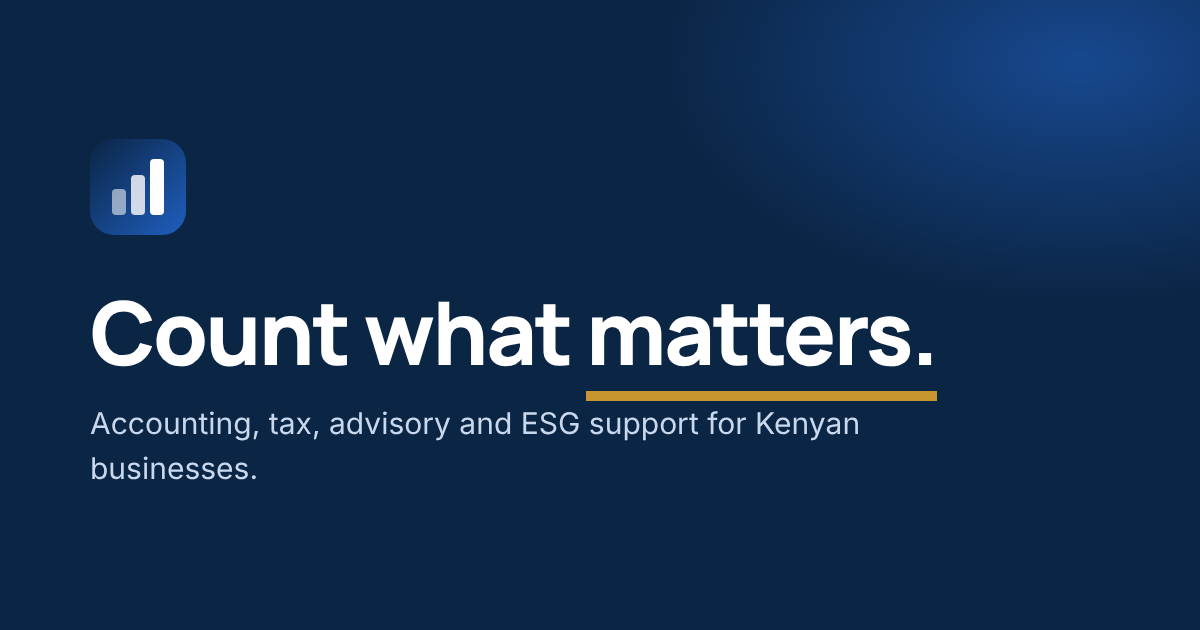
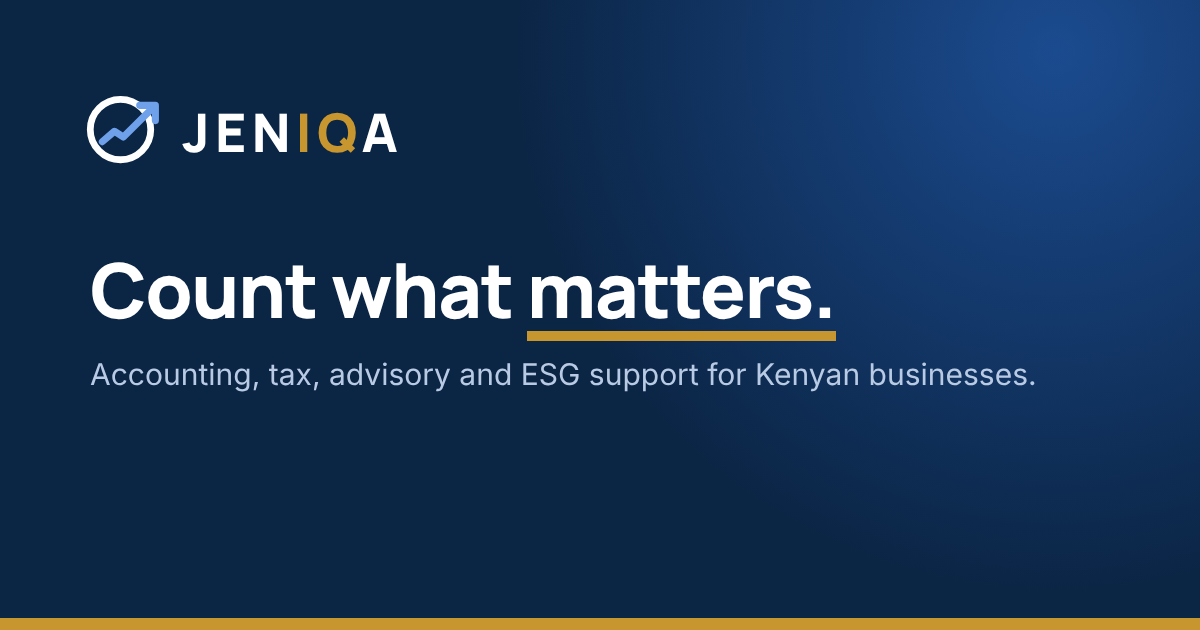
Brand the theme as JENIQA (v1.3.0) (#3)
* Add motion, free tools and a homepage tools block (v1.2.0)

- Free tools page: PAYE and take-home pay, VAT, KRA deadline countdown,
  ESG readiness check with score and next steps; rates editable under
  Firm settings > Free tools, with a launch checklist item to confirm them
- Homepage: services ticker under the hero, free tools block with the
  next KRA deadline
- Motion: hero entrance, floating hero cards, growing bars, scroll
  reveal, stat counters, hover lifts, reading progress on articles;
  all skipped when the visitor prefers reduced motion
- Docs and screenshots updated

Claude-Session: https://claude.ai/code/session_01XJgmjuTxztYokqzvinyikF

* Keep the KRA countdown right on cached pages, and small fixes (v1.2.1)

- The deadline countdown is recounted in the browser from today's date in
  Nairobi, so a page served from LiteSpeed or Cloudflare cache never shows
  a stale or past deadline
- PAYE calculator falls back to the default bands if the bands box is emptied
- Printing shows blocks that had not scrolled into view yet
- Remove an aria-label that had no role on the services ticker

Claude-Session: https://claude.ai/code/session_01XJgmjuTxztYokqzvinyikF

* Brand the theme as JENIQA (v1.3.0)

Built-in logo is now the JENIQA ring-and-arrow mark with the wordmark,
IQ in gold, white on the navy footer. The registered name JENIQA
Advisory Limited is used for the copyright line, form consent and
structured data; the short brand name for the logo, titles, bylines
[…]

Changed region(s): [[0.0617, 0.1508, 1.0, 0.6937], [0.0, 0.9651, 1.0, 1.0], [0.0617, 0.7238, 0.2158, 0.7841]]

diff --git a/theme/cwm/style.css b/theme/cwm/style.css
@@ -4,7 +4,7 @@ Theme URI: https://ivulatechnologies.com
 Author: Ivula Technologies
 Author URI: https://ivulatechnologies.com
 Description: Corporate theme for a Kenyan accounting, tax, advisory and ESG firm. Every block is editable in WordPress, with switches for the audit service and the team section. No plugins required.
-Version: 1.2.1
+Version: 1.3.0
 Requires at least: 6.2
 Tested up to: 6.8
 Requires PHP: 7.4
@@ -170,13 +170,11 @@ p { margin: 0 0 1em; }
 .site-header__inner { display: flex; align-items: center; justify-content: space-between; gap: 20px; min-height: var(--header-h); }
 
 .brand { display: inline-flex; align-items: center; gap: 12px; text-decoration: none; color: var(--navy); flex: none; }
-.brand__mark { width: 44px; height: 44px; flex: none; }
+.brand__mark { width: 42px; height: 42px; flex: none; }
 .brand__img { max-height: 48px; width: auto; }
-.brand__text { display: flex; flex-direction: column; line-height: 1.1; }
-.brand__name { font: 800 1.18rem/1.1 var(--font-head); letter-spacing: -0.02em; color: var(--navy); }
-.brand__tag { font: 600 .72rem/1.3 var(--font-body); color: var(--slate); letter-spacing: .02em; margin-top: 3px; }
-.brand--light .brand__name { color: #fff; }
-.brand--light .brand__tag { color: #9FB6D6; }
+.brand__word { font: 800 1.6rem/1 var(--font-head); letter-spacing: .1em; color: #0E2747; white-space: nowrap; }
+.brand__accent { color: var(--gold); }
+.brand--light .brand__word { color: #fff; }
 
 .main-nav__list { list-style: none; margin: 0; padding: 0; display: flex; align-items: center; gap: 4px; }
 .main-nav__item { position: relative; display: flex; align-items: center; }
@@ -230,9 +228,8 @@ p { margin: 0 0 1em; }
 	.main-nav__mobile-extra a { display: flex; align-items: center; gap: 10px; color: var(--navy); text-decoration: none; font-weight: 600; }
 }
 @media (max-width: 480px) {
-	.brand__tag { display: none; }
-	.brand__name { font-size: 1.05rem; }
-	.brand__mark { width: 38px; height: 38px; }
+	.brand__word { font-size: 1.3rem; }
+	.brand__mark { width: 34px; height: 34px; }
 	.hide-xs { display: none; }
 	.show-xs { display: inline; }
 	.btn--header { min-height: 42px; padding: .55em .9em; font-size: .85rem; }
@@ -770,7 +767,7 @@ a.pill:hover { background: var(--royal); color: #fff; }
 .sitemap li { margin-bottom: 6px; }
 
 /* ---------- Footer ---------- */
-.site-footer { background: #071A33; color: #A9BDD8; font-size: .95rem; }
+.site-footer { background: #071A33; color: #A9BDD8; font-size: .95rem; border-top: 4px solid var(--gold); }
 .footer-top { display: grid; gap: 40px; padding: 64px 0 48px; }
 @media (min-width: 760px) { .footer-top { grid-template-columns: repeat(2, 1fr); } }
 @media (min-width: 1100px) { .footer-top { grid-template-columns: 1.5fr 1fr 1fr 1.15fr 1.3fr; gap: 40px; } }

diff --git a/theme/cwm/inc/template-tags.php b/theme/cwm/inc/template-tags.php
@@ -5,27 +5,35 @@
 
 defined( 'ABSPATH' ) || exit;
 
-/** The built-in mark: three ascending bars for money, obligations and impact. */
+/** The built-in JENIQA mark: a ring with a rising arrow breaking out of it. */
 function cwm_mark_svg( $variant = 'dark' ) {
-	$uid = 'g' . wp_rand( 1000, 9999 );
-	return '<svg class="brand__mark" viewBox="0 0 48 48" aria-hidden="true" focusable="false">'
-		. '<defs><linearGradient id="' . $uid . '" x1="0" y1="0" x2="1" y2="1"><stop offset="0" stop-color="' . ( 'light' === $variant ? '#2A6FD6' : '#0B2545' ) . '"/><stop offset="1" stop-color="#1F5FBF"/></linearGradient></defs>'
-		. '<rect width="48" height="48" rx="12" fill="url(#' . $uid . ')"/>'
-		. '<rect x="11" y="25" width="7" height="13" rx="2" fill="#fff" fill-opacity=".55"/>'
-		. '<rect x="20.5" y="18" width="7" height="20" rx="2" fill="#fff" fill-opacity=".8"/>'
-		. '<rect x="30" y="10" width="7" height="28" rx="2" fill="#fff"/>'
+	$light = 'light' === $variant;
+	return '<svg class="brand__mark" viewBox="28 28 416 416" aria-hidden="true" focusable="false">'
+		. '<circle cx="222" cy="222" r="170" fill="none" stroke="' . ( $light ? '#fff' : '#0E2747' ) . '" stroke-width="38"/>'
+		. '<path d="M120 290 188 232 238 264 408 95M330 86h88v86" fill="none" stroke="' . ( $light ? '#6FA0EA' : '#2160C4' ) . '" stroke-width="40" stroke-linecap="round" stroke-linejoin="round"/>'
 		. '</svg>';
 }
 
-/** Logo: uploaded image if set, otherwise the mark plus the firm name from settings. */
+/** The short brand name for the logo, with the accent letters (e.g. "IQ") in gold. */
+function cwm_wordmark() {
+	$name   = cwm_brand();
+	$accent = (string) cwm_opt( 'brand_accent' );
+	$pos    = '' !== $accent ? strpos( $name, $accent ) : false;
+	if ( false === $pos ) {
+		return '<span class="brand__word">' . esc_html( $name ) . '</span>';
+	}
+	return '<span class="brand__word">' . esc_html( substr( $name, 0, $pos ) ) . '<span class="brand__accent">' . esc_html( $accent ) . '</span>' . esc_html( substr( $name, $pos + strlen( $accent ) ) ) . '</span>';
+}
+
+/** Logo: uploaded image if set, otherwise the built-in mark plus the brand name. */
 function cwm_logo( $variant = 'dark' ) {
 	$id = (int) ( 'light' === $variant && cwm_opt( 'logo_footer' ) ? cwm_opt( 'logo_footer' ) : cwm_opt( 'logo' ) );
 	if ( $id && wp_get_attachment_url( $id ) ) {
-		echo '<img class="brand__img" src="' . esc_url( wp_get_attachment_url( $id ) ) . '" alt="' . esc_attr( cwm_firm() ) . '" height="48">';
+		echo '<img class="brand__img" src="' . esc_url( wp_get_attachment_url( $id ) ) . '" alt="' . esc_attr( cwm_brand() ) . '" height="48">';
 		return;
 	}
 	echo cwm_mark_svg( $variant ); // phpcs:ignore WordPress.Security.EscapeOutput
-	echo '<span class="brand__text"><span class="brand__name">' . esc_html( cwm_firm() ) . '</span><span class="brand__tag">' . esc_html( cwm_opt( 'tagline' ) ) . '</span></span>';
+	echo cwm_wordmark(); // phpcs:ignore WordPress.Security.EscapeOutput
 }
 
 /** "Download firm profile" button, hidden without a file. */

diff --git a/theme/cwm/inc/settings.php b/theme/cwm/inc/settings.php
@@ -10,10 +10,12 @@ function cwm_settings_tabs() {
 		'firm'     => array(
 			'title'  => 'Firm details',
 			'fields' => array(
-				array( 'key' => 'firm_name', 'label' => 'Firm name', 'help' => 'Used in the header, footer, page titles, bylines ("[Firm name] Tax Team") and structured data. Keep the words "audit" or "auditors" out of it; Switch A controls those.' ),
+				array( 'key' => 'firm_name', 'label' => 'Registered company name', 'help' => 'The full legal name, e.g. "JENIQA Advisory Limited". Used in the copyright line, the privacy consent on forms and structured data. Keep the words "audit" or "auditors" out of it; Switch A controls those.' ),
+				array( 'key' => 'brand_name', 'label' => 'Brand name (logo)', 'help' => 'The short name shown in the logo, page titles, bylines ("JENIQA Tax Team") and WhatsApp greetings, e.g. "JENIQA". Leave empty to use the registered name.' ),
+				array( 'key' => 'brand_accent', 'label' => 'Gold letters in the logo', 'help' => 'Letters of the brand name shown in gold, e.g. "IQ". Leave empty for a single-colour name.' ),
 				array( 'key' => 'tagline', 'label' => 'Tagline' ),
 				array( 'key' => 'description', 'label' => 'One-line description', 'type' => 'textarea', 'rows' => 2, 'help' => 'Shown in the footer and used as the homepage meta description.' ),
-				array( 'key' => 'logo', 'label' => 'Logo (optional)', 'type' => 'media', 'library' => 'image', 'help' => 'Leave empty to use the built-in mark with the firm name. Upload an SVG or a PNG at least 400px wide.' ),
+				array( 'key' => 'logo', 'label' => 'Logo (optional)', 'type' => 'media', 'library' => 'image', 'help' => 'Leave empty to use the built-in JENIQA logo (mark plus brand name). Upload an SVG or a PNG at least 400px wide.' ),
 				array( 'key' => 'logo_footer', 'label' => 'Logo for dark backgrounds (optional)', 'type' => 'media', 'library' => 'image', 'help' => 'A white or light version for the navy footer.' ),
 				array( 'key' => 'phone', 'label' => 'Phone' ),
 				array( 'key' => 'email', 'label' => 'Public email address', 'type' => 'email' ),
@@ -129,7 +131,7 @@ add_action(
 	function ( $old, $new ) {
 		$new = wp_parse_args( (array) $new, cwm_setting_defaults() );
 		$old = wp_parse_args( (array) $old, cwm_setting_defaults() );
-		update_option( 'blogname', $new['firm_name'] );
+		update_option( 'blogname', '' !== trim( (string) $new['brand_name'] ) ? $new['brand_name'] : $new['firm_name'] );
 		update_option( 'blogdescription', $new['tagline'] );
 		if ( $old['show_team'] !== $new['show_team'] || $old['audit_state'] !== $new['audit_state'] ) {
 			update_option( 'cwm_flush_rewrite', 1 );

diff --git a/theme/cwm/inc/seed.php b/theme/cwm/inc/seed.php
@@ -96,7 +96,7 @@ function cwm_rows( $pairs, $keys = array( 'title', 'text' ) ) {
 
 function cwm_seed() {
 	// Site basics.
-	update_option( 'blogname', cwm_firm() );
+	update_option( 'blogname', cwm_brand() );
 	update_option( 'blogdescription', cwm_opt( 'tagline' ) );
 	update_option( 'timezone_string', 'Africa/Nairobi' );
 	update_option( 'date_format', 'j F Y' );
@@ -989,3 +989,58 @@ Please do not send confidential documents through our forms unless we ask for th
 These terms are governed by the laws of Kenya.
 TXT;
 }
+
+/**
+ * 1.3.0: sites installed before the JENIQA brand still say "Firm Name". Swap in the
+ * real names once, including the privacy and terms pages written at first setup.
+ */
+add_action(
+	'init',
+	function () {
+		if ( ! get_option( 'cwm_seeded' ) ) {
+			return;
+		}
+		$set0 = (array) get_option( 'cwm_settings', array() );
+		if ( isset( $set0['email'] ) && 'info@jeniqa.co.ke' === $set0['email'] ) {
+			$set0['email'] = 'info@jeniqa.com';
+			update_option( 'cwm_settings', $set0 );
+		}
+		if ( get_option( 'cwm_brand_130' ) ) {
+			return;
+		}
+		update_option( 'cwm_brand_130', 1 );
+		$set  = (array) get_option( 'cwm_settings', array() );
+		$old  = isset( $set['firm_name'] ) ? trim( (string) $set['firm_name'] ) : '';
+		if ( '' !== $old && 'Firm Name' !== $old ) {
+			return; // The firm already set its own name; leave everything alone.
+		}
+		$d                    = cwm_setting_defaults();
+		$set['firm_name']     = $d['firm_name'];
+		$set['brand_name']    = $d['brand_name'];
+		$set['brand_accent']  = $d['brand_accent'];
+		if ( ! isset( $set['email'] ) || in_array( $set['email'], array( 'info@example.co.ke', 'info@jeniqa.co.ke' ), true ) ) {
+			$set['email'] = $d['email'];
+		}
+		update_option( 'cwm_settings', $set );
+		update_option( 'blogname', $d['brand_name'] );
+		$pages = get_posts(
+			array(
+				'post_type'      => 'page',
+				'post_status'    => 'any',
+				'posts_per_page' => -1,
+				's'              => 'Firm Name',
+			)
+		);
+		foreach ( $pages as $p ) {
+			if ( false !== strpos( $p->post_content, 'Firm Name' ) ) {
+				wp_update_post(
+					array(
+						'ID'           => $p->ID,
+						'post_content' => str_replace( 'Firm Name', $d['firm_name'], $p->post_content ),
+					)
+				);
+			}
+		}
+	},
+	20
+);

diff --git a/theme/cwm/inc/seo.php b/theme/cwm/inc/seo.php
@@ -21,9 +21,9 @@ add_filter(
 add_filter(
 	'document_title_parts',
 	function ( $parts ) {
-		$parts['site'] = cwm_firm();
+		$parts['site'] = cwm_brand();
 		if ( is_front_page() ) {
-			$parts['title']   = cwm_firm();
+			$parts['title']   = cwm_brand();
 			$parts['tagline'] = cwm_opt( 'tagline' );
 			unset( $parts['site'] );
 		} elseif ( is_home() ) {
@@ -59,11 +59,11 @@ function cwm_meta_description() {
 		return $d ? $d : cwm_opt( 'description' );
 	}
 	if ( is_home() ) {
-		return 'Tax alerts, tax case analyses, ESG reporting updates, guides and news from ' . cwm_firm() . '.';
+		return 'Tax alerts, tax case analyses, ESG reporting updates, guides and news from ' . cwm_brand() . '.';
 	}
 	if ( is_category() ) {
 		$d = category_description();
-		return $d ? wp_strip_all_tags( $d ) : single_cat_title( '', false ) . ' from ' . cwm_firm() . '.';
+		return $d ? wp_strip_all_tags( $d ) : single_cat_title( '', false ) . ' from ' . cwm_brand() . '.';
 	}
 	return cwm_opt( 'description' );
 }
@@ -86,7 +86,7 @@ add_action(
 			$img = CWM_URI . '/assets/img/og-default.png';
 		}
 		echo "\n" . '<meta name="description" content="' . esc_attr( $desc ) . '">' . "\n";
-		echo '<meta property="og:site_name" content="' . esc_attr( cwm_firm() ) . '">' . "\n";
+		echo '<meta property="og:site_name" content="' . esc_attr( cwm_brand() ) . '">' . "\n";
 		echo '<meta property="og:title" content="' . esc_attr( $title ) . '">' . "\n";
 		echo '<meta property="og:description" content="' . esc_attr( $desc ) . '">' . "\n";
 		echo '<meta property="og:type" content="' . ( is_singular( 'post' ) ? 'article' : 'website' ) . '">' . "\n";
@@ -230,7 +230,8 @@ function cwm_schema_org() {
 	$org  = array(
 		'@type'           => 'AccountingService',
 		'@id'             => home_url( '/#organization' ),
-		'name'            => cwm_firm(),
+		'name'            => cwm_brand(),
+		'legalName'       => cwm_firm(),
 		'slogan'          => cwm_opt( 'tagline' ),
 		'description'     => cwm_opt( 'description' ),
 		'url'             => home_url( '/' ),

diff --git a/theme/cwm/inc/preview.php b/theme/cwm/inc/preview.php
@@ -112,7 +112,7 @@ function cwm_preview_gate( $error ) {
 <meta charset="<?php bloginfo( 'charset' ); ?>">
 <meta name="viewport" content="width=device-width, initial-scale=1">
 <meta name="robots" content="noindex, nofollow">
-<title><?php echo esc_html( cwm_firm() ); ?>: preview</title>
+<title><?php echo esc_html( cwm_brand() ); ?>: preview</title>
 <link rel="stylesheet" href="<?php echo esc_url( $css ); ?>">
 <link rel="icon" href="<?php echo esc_url( CWM_URI . '/assets/img/favicon.svg' ); ?>">
 </head>
@@ -120,7 +120,7 @@ function cwm_preview_gate( $error ) {
 	<main class="preview-gate__card">
 		<div class="preview-gate__brand brand"><?php cwm_logo(); ?></div>
 		<h1>Website preview</h1>
-		<p>This is the new <?php echo esc_html( cwm_firm() ); ?> website before it goes live. Enter the preview password you were given to look around.</p>
+		<p>This is the new <?php echo esc_html( cwm_brand() ); ?> website before it goes live. Enter the preview password you were given to look around.</p>
 		<form method="post">
 			<label for="cwm-pv">Preview password</label>
 			<input id="cwm-pv" type="password" name="cwm_preview_password" autocomplete="current-password" required autofocus>
@@ -146,7 +146,7 @@ function cwm_preview_banner() {
 	$page = isset( $_SERVER['HTTP_HOST'], $_SERVER['REQUEST_URI'] ) ? set_url_scheme( 'http://' . sanitize_text_field( wp_unslash( $_SERVER['HTTP_HOST'] ) ) . esc_url_raw( wp_unslash( $_SERVER['REQUEST_URI'] ) ) ) : home_url( '/' );
 	if ( $fb ) {
 		if ( is_email( $fb ) ) {
-			$href = 'mailto:' . $fb . '?subject=' . rawurlencode( 'Website feedback: ' . cwm_firm() ) . '&body=' . rawurlencode( "Page: " . $page . "\n\n" );
+			$href = 'mailto:' . $fb . '?subject=' . rawurlencode( 'Website feedback: ' . cwm_brand() ) . '&body=' . rawurlencode( "Page: " . $page . "\n\n" );
 		} elseif ( preg_match( '/^\+?[0-9 ]{9,16}$/', $fb ) ) {
 			$href = 'https://wa.me/' . preg_replace( '/\D/', '', $fb ) . '?text=' . rawurlencode( 'Website feedback on ' . $page . ': ' );
 		} else {

diff --git a/theme/cwm/footer.php b/theme/cwm/footer.php
@@ -4,7 +4,7 @@
 	<div class="container">
 		<div class="footer-top">
 			<div class="footer-brand">
-				<a class="brand brand--light" href="<?php echo esc_url( home_url( '/' ) ); ?>" aria-label="<?php echo esc_attr( cwm_firm() ); ?>, home"><?php cwm_logo( 'light' ); ?></a>
+				<a class="brand brand--light" href="<?php echo esc_url( home_url( '/' ) ); ?>" aria-label="<?php echo esc_attr( cwm_brand() ); ?>, home"><?php cwm_logo( 'light' ); ?></a>
 				<p><?php echo esc_html( cwm_opt( 'description' ) ); ?></p>
 				<?php cwm_profile_button( 'btn btn--outline-light btn--sm' ); ?>
 				<ul class="social">
@@ -20,7 +20,7 @@
 							continue;
 						}
 						?>
-						<li><a href="<?php echo esc_url( $s[0] ); ?>" target="_blank" rel="noopener" aria-label="<?php echo esc_attr( cwm_firm() . ' on ' . $s[1] ); ?>"><?php echo cwm_icon( $icon ); // phpcs:ignore ?></a></li>
+						<li><a href="<?php echo esc_url( $s[0] ); ?>" target="_blank" rel="noopener" aria-label="<?php echo esc_attr( cwm_brand() . ' on ' . $s[1] ); ?>"><?php echo cwm_icon( $icon ); // phpcs:ignore ?></a></li>
 					<?php endforeach; ?>
 				</ul>
 			</div>
@@ -92,7 +92,7 @@
 </footer>
 
 <?php if ( cwm_whatsapp_url() ) : ?>
-	<a class="wa-float" href="<?php echo esc_url( cwm_whatsapp_url( 'Hello ' . cwm_firm() . ', I would like to ask about your services.' ) ); ?>" target="_blank" rel="noopener" aria-label="Chat with us on WhatsApp"><?php echo cwm_icon( 'whatsapp' ); // phpcs:ignore ?></a>
+	<a class="wa-float" href="<?php echo esc_url( cwm_whatsapp_url( 'Hello ' . cwm_brand() . ', I would like to ask about your services.' ) ); ?>" target="_blank" rel="noopener" aria-label="Chat with us on WhatsApp"><?php echo cwm_icon( 'whatsapp' ); // phpcs:ignore ?></a>
 <?php endif; ?>
 
 <?php wp_footer(); ?>

diff --git a/theme/cwm/inc/admin.php b/theme/cwm/inc/admin.php
@@ -55,11 +55,11 @@ function cwm_launch_checks() {
 	$s        = admin_url( 'admin.php?page=cwm-settings' );
 
 	return array(
-		array( cwm_firm() !== $d['firm_name'], 'Firm name set', 'Currently "' . cwm_firm() . '".', $s ),
+		array( '' !== trim( cwm_firm() ) && 'Firm Name' !== cwm_firm(), 'Firm name set', 'Registered name "' . cwm_firm() . '", logo name "' . cwm_brand() . '".', $s ),
 		array( cwm_opt( 'phone' ) !== $d['phone'] && cwm_opt( 'email' ) !== $d['email'], 'Real phone and email', 'Shown in the top bar, footer and contact page.', $s ),
 		array( (bool) cwm_opt( 'email_contact' ), 'Shared address for form emails', 'Forms go to a shared inbox only, never to individuals.', $s . '&tab=forms' ),
 		array( $smtp, 'Email sending plugin (SMTP)', 'Install "WP Mail SMTP" or "FluentSMTP" and connect it to the firm\'s mailbox so form emails are not marked as spam. Every enquiry is also saved under Enquiries.', admin_url( 'plugin-install.php?s=smtp&tab=search' ) ),
-		array( (bool) cwm_opt( 'logo' ), 'Logo uploaded (optional)', 'Without one, the built-in mark and the firm name are used.', $s ),
+		array( (bool) cwm_opt( 'logo' ), 'Logo uploaded (optional)', 'Without one, the built-in logo (mark plus brand name) is used.', $s ),
 		array( (bool) cwm_file_url( cwm_opt( 'firm_profile' ) ), 'Firm profile PDF (optional)', 'The download buttons stay hidden until it is uploaded.', $s ),
 		array( 0 === $sample, 'Sample insights removed', $sample ? $sample . ' sample item(s) are still published. Use the button below once your own articles are in.' : 'None left.', '' ),
 		array( 'hidden' === cwm_audit_state(), 'Audit switch set to Hidden for launch', 'Current state: ' . cwm_audit_state() . '.', $s . '&tab=switches' ),

diff --git a/theme/cwm/inc/helpers.php b/theme/cwm/inc/helpers.php
@@ -8,13 +8,15 @@ defined( 'ABSPATH' ) || exit;
 /** Default values for every firm setting. */
 function cwm_setting_defaults() {
 	return array(
-		'firm_name'          => 'Firm Name',
+		'firm_name'          => 'JENIQA Advisory Limited',
+		'brand_name'         => 'JENIQA',
+		'brand_accent'       => 'IQ',
 		'tagline'            => 'Count what matters.',
 		'description'        => 'Accounting, tax, advisory and ESG support for Kenyan businesses that want to grow, and to do it right.',
 		'logo'               => 0,
 		'logo_footer'        => 0,
 		'phone'              => '+254 700 000 000',
-		'email'              => 'info@example.co.ke',
+		'email'              => 'info@jeniqa.com',
 		'whatsapp'           => '254700000000',
 		'address'            => "Upper Hill, Nairobi\nP.O. Box 00000-00100, Nairobi, Kenya",
 		'hours'              => "Monday to Friday, 8:00am to 5:00pm\nSaturday by appointment",
@@ -71,8 +73,15 @@ add_action(
 	}
 );
 
+/** The registered (legal) name, e.g. "JENIQA Advisory Limited": copyright, consent, structured data. */
 function cwm_firm() {
 	return cwm_opt( 'firm_name' );
+}
+
+/** The short brand name, e.g. "JENIQA": logo, page titles, bylines, greetings. */
+function cwm_brand() {
+	$b = trim( (string) cwm_opt( 'brand_name' ) );
+	return '' !== $b ? $b : cwm_firm();
 }
 
 /** Switch A: hidden, partner or live. */
@@ -302,7 +311,7 @@ function cwm_byline( $post_id = null ) {
 		$team = cwm_is_case( $post_id ) || has_category( 'tax-alerts', $post_id ) ? 'Tax Team' : ( has_category( 'esg-reporting', $post_id ) ? 'ESG Team' : 'Advisory Team' );
 	}
 	return array(
-		'name' => trim( cwm_firm() . ' ' . $team ),
+		'name' => trim( cwm_brand() . ' ' . $team ),
 		'url'  => '',
 	);
 }

diff --git a/theme/cwm/template-parts/cta.php b/theme/cwm/template-parts/cta.php
@@ -26,7 +26,7 @@ $form    = $service ? ( (int) get_queried_object_id() === $service ? '#enquire' 
 				<li<?php echo cwm_whatsapp_url() ? '' : ' class="is-wide"'; ?>><a href="<?php echo esc_url( cwm_tel_url() ); ?>"><span class="cta__icon"><?php echo cwm_icon( 'phone' ); // phpcs:ignore ?></span><span><small>Call</small><?php echo esc_html( cwm_opt( 'phone' ) ); ?></span></a></li>
 			<?php endif; ?>
 			<?php if ( cwm_whatsapp_url() ) : ?>
-				<li><a href="<?php echo esc_url( cwm_whatsapp_url( 'Hello ' . cwm_firm() . ', I would like to talk about my business.' ) ); ?>" target="_blank" rel="noopener"><span class="cta__icon"><?php echo cwm_icon( 'whatsapp' ); // phpcs:ignore ?></span><span><small>WhatsApp</small>Chat with us</span></a></li>
+				<li><a href="<?php echo esc_url( cwm_whatsapp_url( 'Hello ' . cwm_brand() . ', I would like to talk about my business.' ) ); ?>" target="_blank" rel="noopener"><span class="cta__icon"><?php echo cwm_icon( 'whatsapp' ); // phpcs:ignore ?></span><span><small>WhatsApp</small>Chat with us</span></a></li>
 			<?php endif; ?>
 			<?php if ( cwm_opt( 'email' ) ) : ?>
 				<li class="is-wide"><a href="mailto:<?php echo esc_attr( cwm_opt( 'email' ) ); ?>"><span class="cta__icon"><?php echo cwm_icon( 'mail' ); // phpcs:ignore ?></span><span><small>Email</small><?php echo esc_html( cwm_opt( 'email' ) ); ?></span></a></li>

diff --git a/theme/cwm/inc/forms.php b/theme/cwm/inc/forms.php
@@ -427,16 +427,16 @@ function cwm_save_enquiry( $type, $values, $file, $page ) {
 	}
 	if ( $to ) {
 		$headers = array( 'Reply-To: ' . ( $who ? $who : 'Sender' ) . ' <' . $values['email'] . '>' );
-		wp_mail( array_map( 'trim', explode( ',', $to ) ), '[' . cwm_firm() . '] ' . $title, implode( "\n", $lines ), $headers, $file ? array( $file['path'] ) : array() );
+		wp_mail( array_map( 'trim', explode( ',', $to ) ), '[' . cwm_brand() . '] ' . $title, implode( "\n", $lines ), $headers, $file ? array( $file['path'] ) : array() );
 	}
 
 	if ( cwm_opt( 'autoreply' ) && 'newsletter' !== $type && ! empty( $values['email'] ) ) {
 		$first = isset( $values['name'] ) ? strtok( $values['name'], ' ' ) : '';
 		$body  = ( $first ? 'Dear ' . $first . ",\n\n" : "Hello,\n\n" )
-			. 'Thank you for contacting ' . cwm_firm() . ". We have received your message and will reply within one working day.\n\n"
+			. 'Thank you for contacting ' . cwm_brand() . ". We have received your message and will reply within one working day.\n\n"
 			. 'If it is urgent, call us on ' . cwm_opt( 'phone' ) . ".\n\n"
 			. cwm_firm() . "\n" . cwm_opt( 'tagline' ) . "\n" . home_url( '/' );
-		wp_mail( $values['email'], 'We have your message: ' . cwm_firm(), $body );
+		wp_mail( $values['email'], 'We have your message: ' . cwm_brand(), $body );
 	}
 }
 

diff --git a/theme/cwm/page-templates/contact.php b/theme/cwm/page-templates/contact.php
@@ -30,7 +30,7 @@ cwm_banner( get_the_title(), cwm_field( 'intro', 'Call, email, WhatsApp or send 
 				<?php endif; ?>
 			</ul>
 			<?php if ( cwm_whatsapp_url() ) : ?>
-				<a class="btn btn--whatsapp btn--block" href="<?php echo esc_url( cwm_whatsapp_url( 'Hello ' . cwm_firm() . ', I would like to ask about your services.' ) ); ?>" target="_blank" rel="noopener"><?php echo cwm_icon( 'whatsapp' ); // phpcs:ignore ?> Chat on WhatsApp</a>
+				<a class="btn btn--whatsapp btn--block" href="<?php echo esc_url( cwm_whatsapp_url( 'Hello ' . cwm_brand() . ', I would like to ask about your services.' ) ); ?>" target="_blank" rel="noopener"><?php echo cwm_icon( 'whatsapp' ); // phpcs:ignore ?> Chat on WhatsApp</a>
 			<?php endif; ?>
 			<a class="btn btn--ghost btn--block" href="<?php echo esc_url( cwm_page_url( 'proposal' ) ); ?>">Need a quote? Request a proposal</a>
 			<?php cwm_map(); ?>
